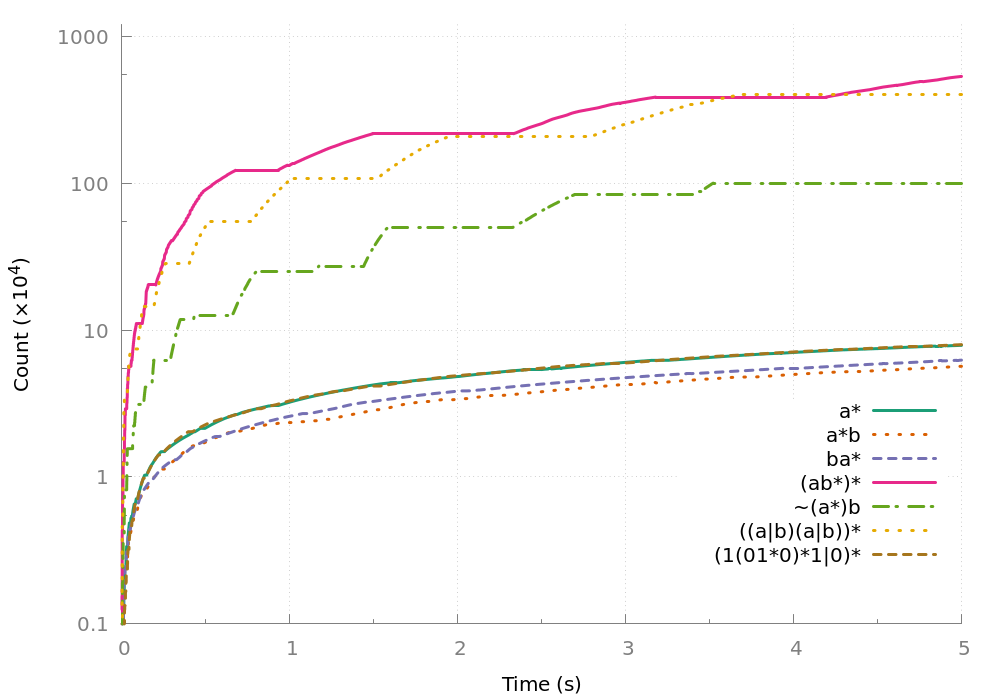
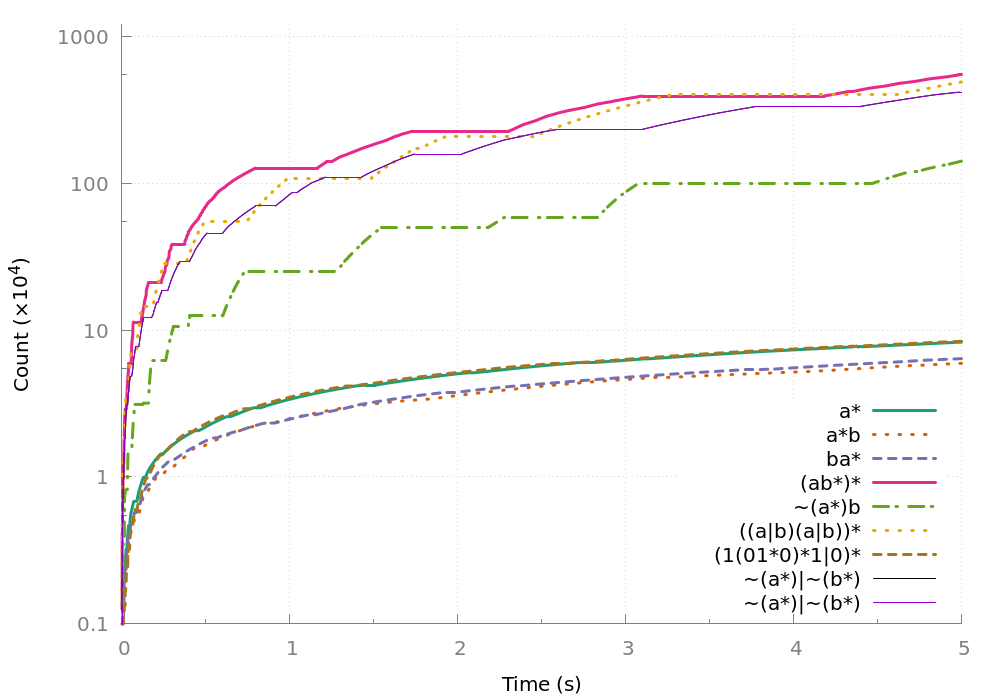
Bench haskell section.

diff --git a/bench.tex b/bench.tex
@@ -3,11 +3,66 @@
 
 We now compare the performance of our implementations following two directions.
 First, we compare the successive algorithmic refinement using the \haskell
-implementation presented in \autoref{sec:motivation} and \autoref{sec:improvements}.
+implementation presented in \cref{sec:motivation} and \cref{sec:improvements}.
 We then compare different data-structure implementation for segments
-using the \ocaml implementation detailed in \autoref{sec:ocaml}.
+using the \ocaml implementation detailed in \cref{sec:ocaml}.
 
 \subsection{Comparing algorithms in the \haskell implementation}
+
+\cref{sec:motivation} and \cref{sec:improvements} present successive
+algorithmic improvements for our language generator. We now evaluate
+the impact of these improvements on performances.
+The performances are obviously highly dependent on the regular expression
+considered. We chose three regular expressions that highlight
+the various strength and weaknesses of the different approaches:
+\begin{itemize}
+\item$\Rstar a$: The \code{star} operation is very performance intensive.
+  The input language only contains one segment, which highlight the usefulness
+  of sparse indexing and maps. Since each segment of the output language contains
+  only one element, this also tests the behavior of star at high length.
+\item $\Rstar{(\Rconcat{a}{\Rstar{b}})}$: On the oposite end of the spectrum, this
+  regular expression applies \code{star} to a language where all segments
+  are neither empty nor full. This measures the performances of \code{star}
+  and \code{concatenation} on non-sparse languages.
+\item $\Rconcat{\Rcomplement{(\Rstar{a})}}{b}$: Finally, this regular expressions
+  tests the generation of a very big language through \code{star} and the
+  concatenation to a much smaller language.
+\end{itemize}
+
+\TODO{Describe what are the different haskell implementations: naive, ref, seg, refConv, segConv}
+
+The results can be seen in \cref{bench:haskell:all}.
+To evaluate the performance, we iterate through the stream of words produced by
+the generator and register the time since the start of the iteration
+every 20 words. We stop after 5 seconds. We then graph the number reached in
+function of the time spent: the faster a curve grows, the faster it generate
+words.
+We first note that most implementation generates between 3000 and
+150000 words in the first second, which is more than sufficient for testing
+purposes.
+Additionally, the refConv implementation
+which uses symbolic segments and convolutions
+is the most versatile. This validates our improvements
+proposed in \cref{sec:improvements}.
+Looking at each graph in more details, we can make the following remarks:
+\begin{itemize}[leftmargin=*]
+\item All implementations are equally fast on $\Rstar a$ except
+for the naive implementation. This is not surprising, since it does not uses
+sparse indexing and relies on list lookups.
+\item 
+For $\Rstar{(\Rconcat{a}{\Rstar{b}})}$ and
+$\Rconcat{\Rcomplement{(\Rstar{a})}}{b}$, some implementations showcase
+a shape in ``skewed stairs''. This can be seen as insufficient laziness:
+when arriving at a new segment, part of the work is done eagerly which causes
+a plateau. When that part is done, the enumeration proceeds lazily.
+Since laziness and GHC-optimizations are hard to control in a manual fashion,
+we did not attempt to correct this.
+\item $\Rconcat{\Rcomplement{(\Rstar{a})}}{b}$ demonstrates that sparse indexing
+  does degrade performances when applying \code{star} to non-sparse languages.
+  The performance impact is however recovered using the convolution technique
+  presented in \cref{sec:convolution}.
+\item \TODO{Explain why ref is faster on $\Rconcat{\Rcomplement{(\Rstar{a})}}{b}$...}
+\end{itemize}
 
 \begin{figure}[h]
   \centering

diff --git a/improvements.tex b/improvements.tex
@@ -170,6 +170,8 @@ GHC is sufficiently clever to pull \code{ly !!! (n - i)} out of the loop.}
 There are several different ways to reduce this complexity.
 
 \subsubsection{Convolution}
+\label{sec:convolution}
+
 \begin{figure}[tp]
 \begin{lstlisting}
 concatenate'' :: SegLang -> SegLang -> SegLang
